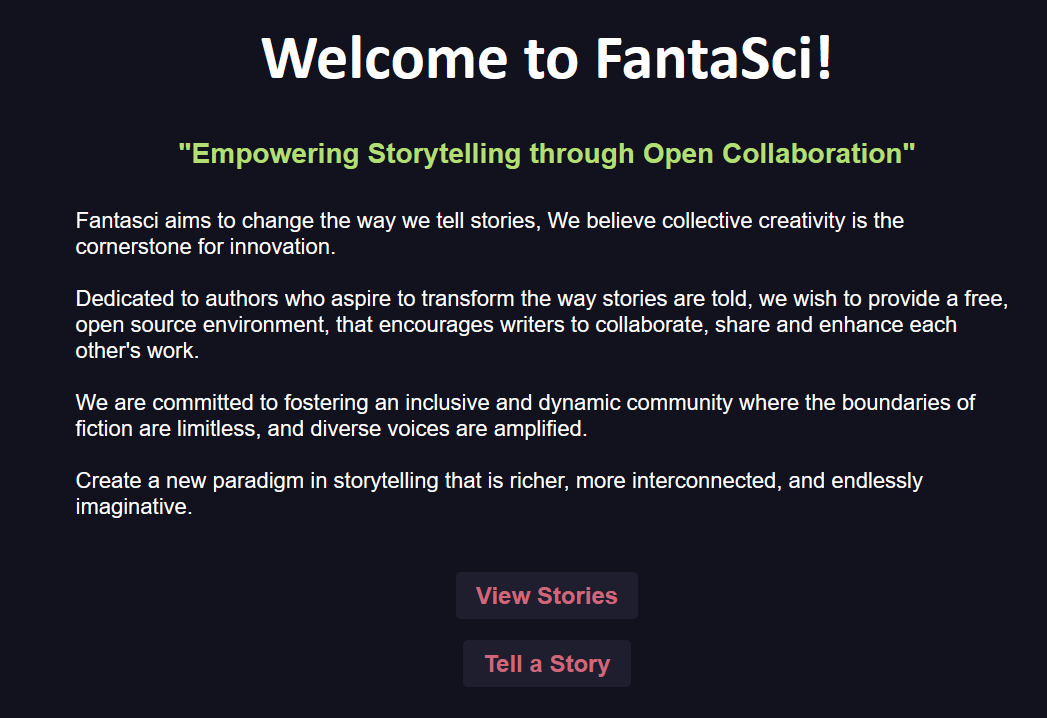
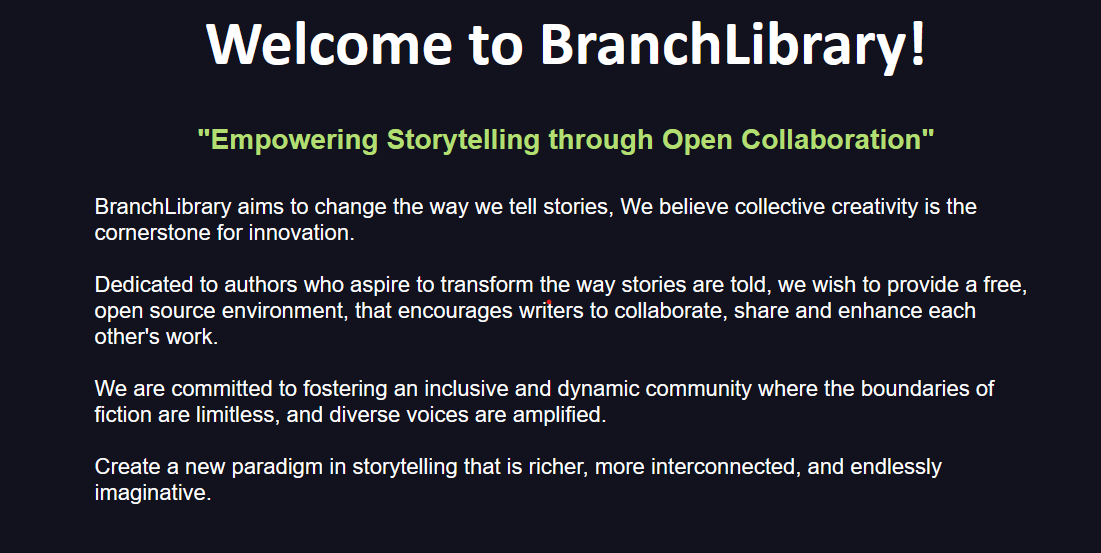
added User dir | Update README

diff --git a/templates/user_dir.html b/templates/user_dir.html
@@ -1,0 +1,61 @@
+ <!DOCTYPE html>
+
+ <link rel="stylesheet" href="{{ url_for('static', filename='css/user_dir.css') }}">
+
+{% block head %}
+<title> Directory </title>
+{% endblock %}
+
+
+{% block body %}
+
+{% if current_user.is_authenticated %}
+
+	<a href="/logout/" class="button">Logout</a><br>	
+	<a href="/" class="return-to-bar">Return to the Bar</a>
+	<div style = "text-align: center;">
+		<em style = "color: #636d83; font-size: 22px; font-family: sans-serif;"> 
+			Hello, {{ current_user.username }}!
+		</em>
+		<br>
+	</div>
+
+{% else %}
+
+	<div style= "text-align: center;">
+			<em style = "color: #BB86FC; font-size: 22px; font-family: sans-serif" >Not Logged In</em>
+		</div>
+		<a href="/login/" class="button">Login</a><br>
+		<a href="/register/" class="button">Create Account</a><br>
+		<a href="/" class="return-to-bar">Return to the Bar</a>
+
+{% endif %}
+
+
+<div class="content">
+	<h1 style="text-align: center;">Author Directory</h1><br>
+
+	<!-- If there are no Stories yet, this prompts the user to return to Index.html -->
+	{% if users|length < 1 %}
+	
+	<h4 style="text-align: center;"> It is a quiet night, no one has come in<br>  
+		<br><a href="/register/">Maybe tell us who you are and then tell us a story hmm?</a>
+	</h4>
+	
+	{% else %}
+	
+	
+	<table class="center-table">
+		
+		{% for user in users %}
+		<tr>
+		<td><a href="{{ url_for('user_dir_stories', user_id=user.id) }}" class="story-link">{{ user.username }}</a></td>
+		{% endfor %}
+		</tr>  
+	
+	</table>
+	
+	{% endif %}
+	
+</div>
+{% endblock %}

diff --git a/static/css/user_dir.css b/static/css/user_dir.css
@@ -1,0 +1,83 @@
+body {
+	background: #12121F;
+	margin: 17px;
+	font-size: 20px;
+}
+
+h4 {
+	font-size: 28px;
+	color: #636d83;
+	text-align: center;
+	font-family: sans-serif;
+}
+
+h1 {
+	font-size: 36px;
+	color: #B3DF72;
+	text-align: center;
+	font-family: sans-serif;
+}
+
+a {
+	color: #636d83;
+	font-size: 20px;
+	font-family: sans-serif;
+	text-decoration: none;
+}
+
+
+.center-table {
+	margin-left: auto;
+	margin-right: auto;
+	width: 50%;
+}
+
+td {
+	background-color: #1e1e2e;
+	color: #636d83;
+	font-family: sans-serif;
+	font-size: 20px;
+	text-align: center;
+	padding: 10;
+}
+
+th {
+	background-color: #1e1e2e;
+	color: white;
+	font-family: sans-serif;
+	font-size: 20px;
+	text-align: center;
+	padding: 10;
+}
+
+.story-link {
+	/* for hyperlinks in table */
+	color: #BB86FC;
+}	
+
+.return-to-bar {
+	/* hyperlink to return to index */
+	color: #FD9891;
+}
+
+.form-cont {
+	display: flex;
+	justify-content: center; 
+	align-items: center; 
+	margin: 0 auto; 
+	width: 100%;
+}
+
+.form-input {
+	height: auto;
+	width: auto;
+	margin: 10;
+	color: #636d83;
+	font-size: 16px;
+	font-family: sans-serif;
+	border-radius: 10px;
+	border-color: #1e1e2e;
+	background: #1e1e2e;
+	padding: 10;
+}
+

diff --git a/templates/user_dir_stories.html b/templates/user_dir_stories.html
@@ -1,0 +1,44 @@
+<!DOCTYPE html>
+
+ <link rel="stylesheet" href="{{ url_for('static', filename='css/user_dir.css') }}">
+
+{% block head %}
+<title> Directory </title>
+{% endblock %}
+
+
+{% block body %}
+
+{% if current_user.is_authenticated %}
+
+	<a href="/logout/" class="button">Logout</a><br>	
+	<a href="/" class="return-to-bar">Return to the Bar</a>
+
+{% else %}
+
+	<div style= "text-align: center;">
+			<em style = "color: #BB86FC; font-size: 22px; font-family: sans-serif" >Not Logged In</em>
+		</div>
+		<a href="/login/" class="button">Login</a><br>
+		<a href="/register/" class="button">Create Account</a><br>
+		<a href="/" class="return-to-bar">Return to the Bar</a>
+{% endif %}
+
+
+<div class="content">
+	<h1 style="text-align: center;">{{ user.username }} Library</h1><br>
+
+	
+	<table class="center-table">
+		
+		
+		{% for story in stories %}
+			<td><a href="{{ url_for('view_story', id=story.id) }}" class="story-link">{{ story.title }}</a></td>
+		{% endfor %}
+		</tr>  
+	
+	</table>
+
+	
+</div>
+{% endblock %}

diff --git a/templates/story_db.html b/templates/story_db.html
@@ -1,4 +1,6 @@
-<!--
+ <!DOCTYPE html>
+
+ <!--
 	This template is where Users can look at existing stories, choose to update
 	delete or navigate to other areas of the app.
 -->
@@ -12,7 +14,8 @@
 {% block body %}
 
 {% if current_user.is_authenticated %}
-
+	
+	<a href="/user_dir/" class="button">Author Directory</a><br>
 	<a href="/logout/" class="button">Logout</a><br>	
 	<a href="/" class="return-to-bar">Return to the Bar</a>
 	<div style = "text-align: center;">
@@ -29,6 +32,7 @@
 		</div>
 		<a href="/login/" class="button">Login</a><br>
 		<a href="/register/" class="button">Create Account</a><br>
+		<a href="/user_dir/" class="button">Author Directory</a><br>
 		<a href="/" class="return-to-bar">Return to the Bar</a>
 
 {% endif %}

diff --git a/templates/index.html b/templates/index.html
@@ -15,7 +15,8 @@
 		</em>
 		</div>
 		<a href="/logout/" class="button">Logout User</a><br>
-		<h1>Welcome to BranchLibrary!</h1>
+		<a href="/user_dir/" class="button">Author Directory</a><br>
+	<h1>Welcome to BranchLibrary!</h1>
 
 	{% else %}
 
@@ -24,7 +25,8 @@
 	</div>
 		<a href="/login/" class="button">Login</a><br>	
 		<a href="/register/" class="button">Create Account</a><br>
-		<h1>Welcome to BranchLibrary!</h1>
+		<a href="/user_dir/" class="button">Author Directory</a><br>
+	<h1>Welcome to BranchLibrary!</h1>
 	
 	{% endif %}
 	

diff --git a/main.py b/main.py
@@ -68,6 +68,9 @@ class NewStory(db.Model):
 
     current_version = db.relationship('NewVersion', foreign_keys=[current_version_id], post_update=True)
     versions = db.relationship('NewVersion', backref='story', lazy=True, foreign_keys='NewVersion.story_id')
+    
+    # This relationship is to assist with User Directory
+    # user_list = db.relationship('User', backref=db.backref('stories', lazy=True))
 
     def __repr__(self):
         return '<new_story %r>' % self.id
@@ -96,7 +99,7 @@ class User(db.Model, UserMixin):
     id = db.Column(db.Integer, primary_key=True)
     username = db.Column(db.String(20), nullable=False, unique=True)
     password = db.Column(db.String(80), nullable=False)
-
+    stories = db.relationship('NewStory', backref='author', lazy=True, foreign_keys=[NewStory.author_id])
 
 class RegisterForm(FlaskForm):
     username = StringField(validators=[InputRequired(), Length(min=4, max=20)], render_kw={"placeholder" : "Username"})
@@ -295,6 +298,27 @@ def versions(id):
     story = NewStory.query.get_or_404(id)
     versions = NewVersion.query.filter_by(story_id=id).order_by(NewVersion.date_created.desc()).all()
     return render_template('versions.html', story=story, versions=versions, current_user=current_user)
+
+
+###################################################
+#               User Directory View               # 
+###################################################
+
+@app.route('/user_dir/', methods=['GET'])
+def user_dir():
+    '''List of Registered'''
+    
+    users_in_dir = User.query.join(NewStory, User.id == NewStory.author_id).all()
+    return  render_template('user_dir.html', users=users_in_dir)
+
+
+@app.route('/user_dir_stories/<int:user_id>/', methods=['GET'])
+def user_dir_stories(user_id):
+    '''stories users wrote'''
+   
+    user = User.query.get_or_404(user_id)
+    stories = NewStory.query.filter_by(author_id=user_id).all()
+    return  render_template('user_dir_stories.html', user=user, stories=stories)
 
 
 

diff --git a/README.md b/README.md
@@ -1,4 +1,4 @@
-# FantaSci Project
+# BranchLibrary Project
 
 *Ongoing project to create a site where users can collaborate with collective storytelling in an open source style of contribution.*
 
@@ -15,8 +15,10 @@
 	- ~~Content Version Directory.~~
 
 2) __Community Features__
-	- Active User Account directory.
-	- Integrated Instant Message system.
+	- Active User Account directory[WIP].
+	    |- Added Directory of Users.
+        | |- Added list of Stories by user.
+    - Integrated Instant Message system.
 	- Contribution Point System.
 
 3) __Text Editor UX__
